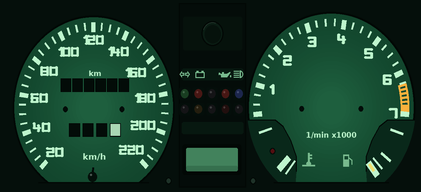
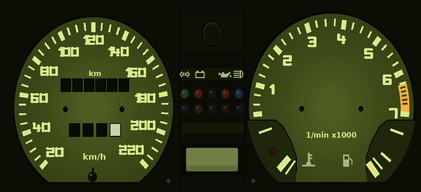
v0.46.1: Savana GLS com quadro aceso verde-oliva e lanterna lateral de uma lente só
Claude-Session: https://claude.ai/code/session_01MLD9VR7gkmY4w6a9beZcp6

diff --git a/src/cockpit.ts b/src/cockpit.ts
@@ -663,7 +663,7 @@ function santanaCluster(c: CanvasRenderingContext2D, ox: number, r: Race) {
   const km = r.track ? Math.max(0, ((r.playerZ - r.track.startZ) * KMH) / 3600) : 0;
   const drums = (v: number, n: number, cx: number, cy: number, pitch: number, last: boolean) => {
     const s = String(Math.floor(v) % 10 ** n).padStart(n, '0');
-    for (let i = 0; i < n; i++) pix(c, s[i], X(cx + (i - (n - 1) / 2) * pitch), Y(cy), last && i === n - 1 ? (k > 0.3 ? '#7a1c14' : '#c02a1c') : k > 0.3 ? '#bef5cd' : '#dcdfd4', 0.45);
+    for (let i = 0; i < n; i++) pix(c, s[i], X(cx + (i - (n - 1) / 2) * pitch), Y(cy), last && i === n - 1 ? (k > 0.3 ? '#7a1c14' : '#c02a1c') : k > 0.3 ? '#d6ec8c' : '#dcdfd4', 0.45);
   };
   drums(38685 + km, 6, 99.06, 60.31, 2.9, false);
   drums((243.8 + km) * 10, 4, 99.06, 71.51, 3.4, true);
@@ -673,7 +673,7 @@ function santanaCluster(c: CanvasRenderingContext2D, ox: number, r: Race) {
   const dw = 1.9, dh = 3.9, gap = 0.8, colon = 1.1;
   let lx = X(128.35) - ((hm.length - 1) * (dw + gap) - gap + colon + gap) / 2;
   const ly = Y(78.3) - dh / 2;
-  c.fillStyle = k > 0.3 ? '#06180e' : '#1c2418';
+  c.fillStyle = k > 0.3 ? '#141806' : '#1c2418';
   for (const ch of hm) {
     if (ch === ':') {
       c.fillRect(lx + 0.3, ly + dh * 0.26, 0.55, 0.55);
@@ -727,7 +727,7 @@ COCKPIT_ART['br-santana'] = {
   pod: { x: -8, y: -54, r: 7.5, dx: 3.5, dy: 17.5, pillar: '#87767f', face: 'black', bezel: 'black', lit: 'green' }, radar: [226, 21], // relógios no forro claro da coluna (medido no topo da arte: centro do forro em x 94 na linha 22, 101 na 57)
   speedMax: 220, needle: '#f0ecd8', needleW: 1.0, needleTail: 2.3, needleFine: true, needleTip: 0.4, hubUnder: true, hub: '#232326', hubR: 2.1,
   faces: [{ src: SN_FACE, x: SN.x, y: SN.y, w: SN.w, h: SN.h }, { src: SN_SWITCH, x: SN_SW.x, y: SN_SW.y, w: SN_SW.w, h: SN_SW.h }],
-  glow: '60,170,110', glowK: 0.5,
+  glow: '150,170,60', glowK: 0.5,
   aux: [],
   under: santanaUnder, extra: santanaCluster,
 };

diff --git a/tools/ref/santana_side_lamp.py b/tools/ref/santana_side_lamp.py
@@ -1,9 +1,8 @@
-"""Savana GLS, lateral: a lanterna de trás aparece de lado como um bloco âmbar em cima e um vermelho
-embaixo; na traseira ela é âmbar no canto de fora (o pisca que dá a volta na lateral). Para as duas
-vistas baterem, a parte de baixo (e os pixels vermelhos soltos da de cima) passa para âmbar, com o
-mesmo brilho de cada pixel (a forma e o brilho da lente ficam).
+"""Savana GLS, lateral: a lanterna de trás vista de lado é UMA lente só, âmbar (o canto de fora da
+lanterna traseira dando a volta), sem divisória no meio. A arte trazia um bloco âmbar em cima, um
+vermelho embaixo e uma faixa preta entre os dois: a lente inteira passa a âmbar de um tom só (com um
+filete mais claro em cima, a luz do céu) e a faixa preta do meio some (só o contorno de fora fica).
 Uso: python3 tools/ref/santana_side_lamp.py   (rodar depois do santana_sprites.py)"""
-import colorsys
 import os
 import numpy as np
 from PIL import Image
@@ -11,20 +10,41 @@ from PIL import Image
 CARS = os.path.join(os.path.dirname(__file__), '..', '..', 'src/assets/cars')
 p = os.path.join(CARS, 'br-santana-side.png')
 a = np.array(Image.open(p).convert('RGBA'))
-X0, X1, Y0, Y1 = 380, 396, 51, 68   # caixa da lanterna no sprite de 400 px (medida)
-n = 0
-for y in range(Y0, Y1 + 1):
+X0, X1, Y0, Y1 = 378, 398, 50, 69   # caixa da lanterna no sprite de 400 px (medida)
+AMBER, TOP = (240, 124, 12), (252, 160, 32)
+rgb = a[..., :3].astype(int)
+r, g, b = rgb[..., 0], rgb[..., 1], rgb[..., 2]
+# lente = pixels saturados vermelhos/âmbar dentro da caixa
+lens = np.zeros(a.shape[:2], bool)
+lens[Y0:Y1 + 1, X0:X1 + 1] = True
+lens &= (a[..., 3] > 0) & (r > 70) & (r > g + 35) & (r > b + 50)
+# divisória: pixels escuros com lente logo acima e logo abaixo (até 2 linhas) na mesma coluna
+dark = (a[..., 3] > 0) & (rgb.max(2) < 70)
+div = np.zeros_like(lens)
+for y in range(Y0 + 1, Y1):
     for x in range(X0, X1 + 1):
-        r, g, b, al = (int(v) for v in a[y, x])
-        if not al:
+        if not dark[y, x]:
             continue
-        h, s, v = colorsys.rgb_to_hsv(r / 255, g / 255, b / 255)
-        if s > 0.5 and v > 0.25 and (h < 0.05 or h > 0.95):
-            # âmbar das lentes da traseira: matiz ~0,09; um pouco mais claro que o vermelho de mesmo brilho
-            # o vermelho da lente é bem mais escuro que o âmbar: o brilho é levado para a faixa do âmbar de
-            # cima (0,78 a 1), mantendo a ordem do mais escuro para o mais claro
-            nr, ng, nb = colorsys.hsv_to_rgb(0.085 if v < 0.9 else 0.11, 0.95, 0.78 + 0.22 * min(1, (v - 0.25) / 0.6))
-            a[y, x, :3] = (int(nr * 255), int(ng * 255), int(nb * 255))
-            n += 1
+        up = lens[max(Y0, y - 2):y, x].any()
+        dn = lens[y + 1:min(Y1, y + 2) + 1, x].any()
+        if up and dn:
+            div[y, x] = True
+# só a linha da divisória (escura de lado a lado da lente); o contorno de fora fica
+for y in range(H := a.shape[0]):
+    if div[y].sum() < 5:
+        div[y] = False
+fill = lens | div
+top = fill & ~np.roll(fill, 1, 0)          # primeira linha da lente: filete mais claro
+a[fill, :3] = AMBER
+a[top, :3] = TOP
+n = int(fill.sum())
+# contorno preto: onde a lente encosta direto na lataria (sem o traço preto da arte), o pixel da borda
+# da lente vira contorno, como no resto da lanterna
+near_body = np.zeros_like(fill)
+for dy, dx in ((0, 1), (0, -1), (1, 0), (-1, 0)):
+    nb = np.roll(np.roll(fill, -dy, 0), -dx, 1)
+    v = np.roll(np.roll(a[..., :3].astype(int), -dy, 0), -dx, 1).max(2)
+    near_body |= fill & ~nb & (v > 110)
+a[near_body, :3] = (0, 2, 4)
 Image.fromarray(a, 'RGBA').save(p, optimize=True)
 print('lanterna lateral: pixels', n)

diff --git a/tools/ref/santana_gauges.py b/tools/ref/santana_gauges.py
@@ -61,10 +61,11 @@ DAY = dict(plate=(38, 38, 40), edge=(12, 12, 14), face=(25, 25, 27), face2=(17, 
            cap=(30, 30, 33), cap2=(44, 44, 48), screw=(120, 120, 124))
 # aceso: verde-garrafa profundo, mais claro no centro de cada mostrador (luz por trás de um difusor);
 # o que brilha são os números, as marcações e os letreiros (verde-claro quase branco)
-LIT = dict(plate=(5, 15, 11), edge=(2, 8, 5), face=(18, 70, 45), face2=(14, 56, 36), core=(30, 95, 62), well=(9, 40, 26), ink=(190, 245, 205),
-           band=(250, 176, 60), dark=(3, 12, 8), cell=(4, 14, 10), strip=(7, 24, 16), icon=(120, 186, 142), text=(190, 245, 205),
-           lcd=(66, 130, 92), lcd2=(54, 112, 78), knob=(4, 16, 10), amber=(240, 222, 110), drum=(3, 12, 8), white=(170, 214, 180),
-           cap=(6, 18, 12), cap2=(10, 28, 19), screw=(30, 50, 40))
+# aceso: verde-amarelado (oliva) como nas fotos do Santana à noite, escuro e pouco saturado; números claros
+LIT = dict(plate=(12, 14, 6), edge=(6, 8, 2), face=(55, 67, 21), face2=(44, 54, 16), core=(77, 92, 33), well=(31, 38, 11), ink=(214, 236, 140),
+           band=(250, 176, 60), dark=(9, 12, 3), cell=(11, 14, 4), strip=(19, 23, 8), icon=(167, 183, 123), text=(214, 236, 140),
+           lcd=(112, 127, 69), lcd2=(96, 109, 57), knob=(13, 15, 5), amber=(240, 222, 110), drum=(9, 12, 3), white=(202, 212, 172),
+           cap=(15, 17, 7), cap2=(23, 27, 11), screw=(44, 49, 31))
 
 
 def P(x, y):

diff --git a/CLAUDE.md b/CLAUDE.md
@@ -74,6 +74,7 @@
 - Limpadores de para-brisa desenhados na arte SAEM (para-brisa limpo): os limpadores são do jogo, na chuva.
 - Quadro aceso à noite (Jornada LS): fundo verde-garrafa escuro e pouco saturado, números e marcações
   claros por cima; nunca verde vivo chapado (apaga os algarismos). Conferir a leitura em tamanho de celular.
+  Savana GLS: o aceso é verde-AMARELADO (oliva), como nas fotos do Santana, com números lima claros.
 - Luzes-espia nunca ficam acesas na arte: desenhar apagadas e acender no jogo na hora certa (óleo,
   freio de mão, pisca). Faixas de cor seguem a lógica do ponteiro (econômetro: verde onde ele fica com
   o pé leve).
